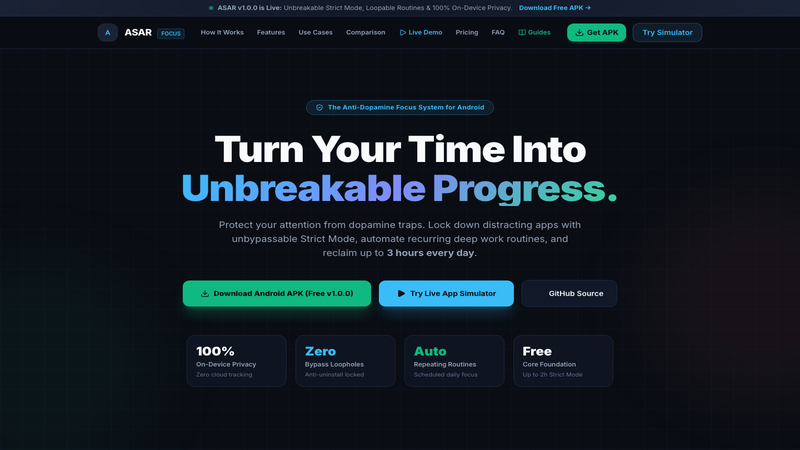
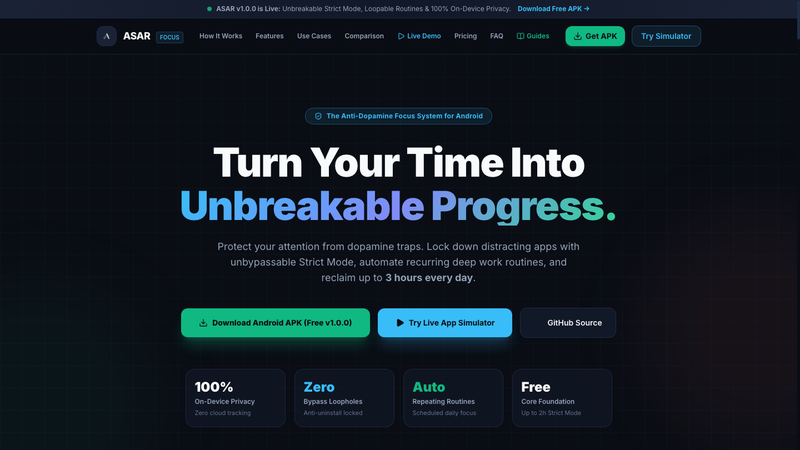
fix: update all 6 featured project cards with full landing screenshots

diff --git a/README.md b/README.md
@@ -83,7 +83,7 @@ const khalid = {
     <td width="50%" valign="top">
       <h3 align="center">📄 CV-Builder — AI Resume Generator</h3>
       <p align="center">
-        <a href="https://first-project-plum-phi.vercel.app"><img src="cv_builder_preview.png" width="100%" alt="CV-Builder"/></a>
+        <a href="https://first-project-plum-phi.vercel.app"><img src="cv_builder_landing.png" width="100%" alt="CV-Builder"/></a>
       </p>
       <p>An intelligent, ATS-friendly resume creator featuring 10 customizable professional models, Google Gemini AI writing assistant, and 1-click HD PDF export without site clutter.</p>
       <p align="center">
@@ -98,7 +98,7 @@ const khalid = {
     <td width="50%" valign="top">
       <h3 align="center">📊 Lumen OS — Quant Trading Terminal</h3>
       <p align="center">
-        <a href="https://trading-os-blue.vercel.app"><img src="trading_os_preview.png" width="100%" alt="Lumen OS Trading-OS"/></a>
+        <a href="https://trading-os-blue.vercel.app"><img src="trading_os_landing.png" width="100%" alt="Lumen OS Trading-OS"/></a>
       </p>
       <p>An institutional quantitative trading platform featuring Google Gemini AI strategy compilation, multi-asset backtesting (Crypto, Forex, Gold, Stocks), and Monte Carlo stress lab.</p>
       <p align="center">
@@ -124,7 +124,7 @@ const khalid = {
     <td width="50%" valign="top">
       <h3 align="center">⚡ CodeForge Mobile — Phone & Web IDE</h3>
       <p align="center">
-        <a href="https://codeforgemobile.pages.dev"><img src="codeforge_preview.png" width="100%" alt="CodeForge Mobile"/></a>
+        <a href="https://codeforgemobile.pages.dev"><img src="codeforge_landing.png" width="100%" alt="CodeForge Mobile"/></a>
       </p>
       <p>An Android-first, VS Code-inspired responsive mobile IDE for phones and browsers with Monaco code editor, live code runners, terminal output, and offline PWA capability.</p>
       <p align="center">
@@ -135,7 +135,7 @@ const khalid = {
     <td width="50%" valign="top">
       <h3 align="center">🏆 AreNex — Esports Tournament Platform</h3>
       <p align="center">
-        <a href="https://github.com/khalidabdullahh/eSports"><img src="esports_preview.png" width="100%" alt="AreNex Esports Platform"/></a>
+        <a href="https://github.com/khalidabdullahh/eSports"><img src="esports_landing.png" width="100%" alt="AreNex Esports Platform"/></a>
       </p>
       <p>Next-generation mobile-first esports tournament platform architected for Battle Royale tournaments with real-time slot booking, live bracket sync, and automated point table calculation.</p>
       <p align="center">
